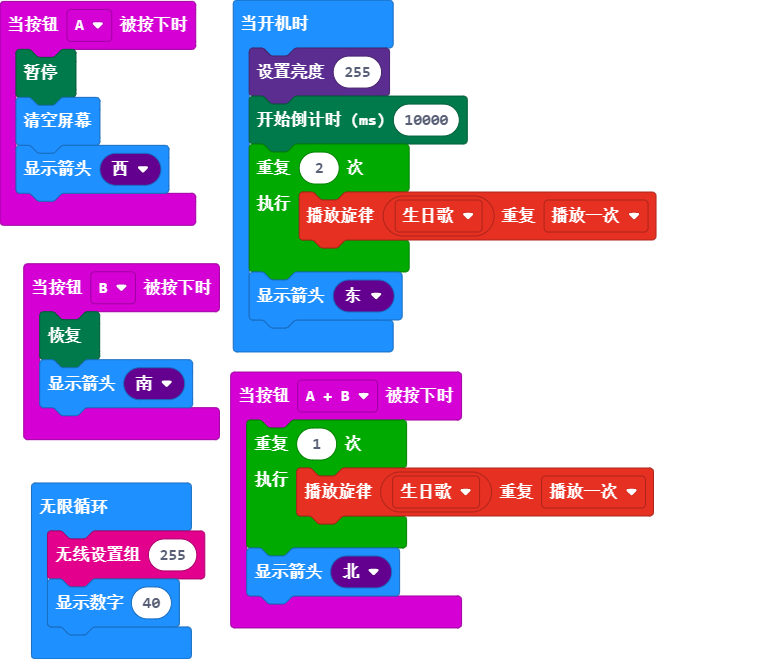
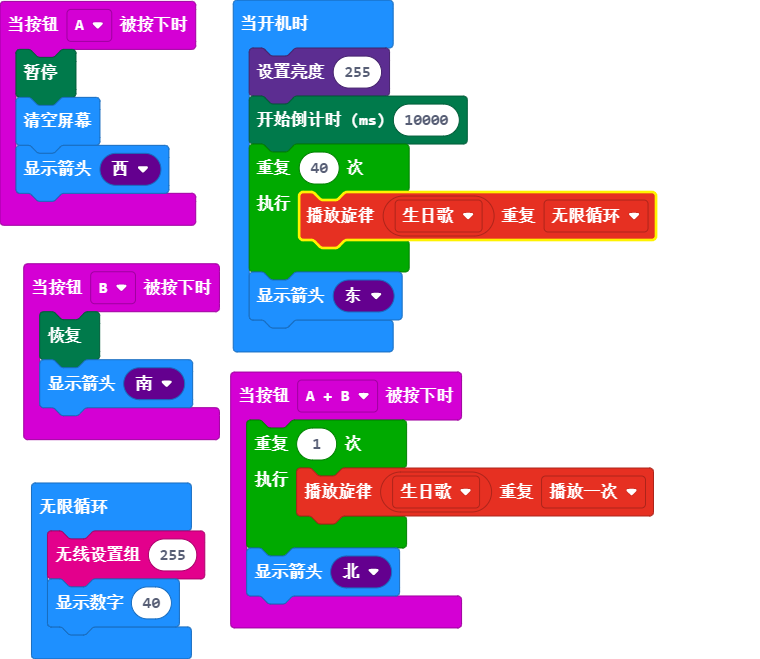
更新 main.blocks, main.ts

Changed region(s): [[0.3934, 0.2428, 0.8776, 0.3642], [0.3934, 0.3338, 0.4539, 0.3945]]

diff --git a/main.ts b/main.ts
@@ -15,8 +15,8 @@ input.onButtonPressed(Button.B, function () {
 })
 led.setBrightness(255)
 game.startCountdown(10000)
-for (let index = 0; index < 2; index++) {
-    music.startMelody(music.builtInMelody(Melodies.Birthday), MelodyOptions.Once)
+for (let index = 0; index < 40; index++) {
+    music.startMelody(music.builtInMelody(Melodies.Birthday), MelodyOptions.Forever)
 }
 basic.showArrow(ArrowNames.East)
 basic.forever(function () {
